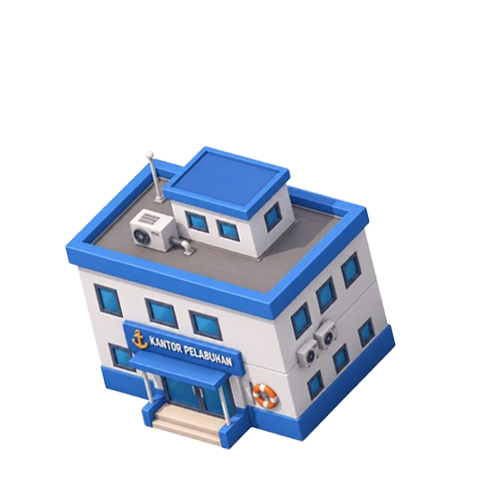
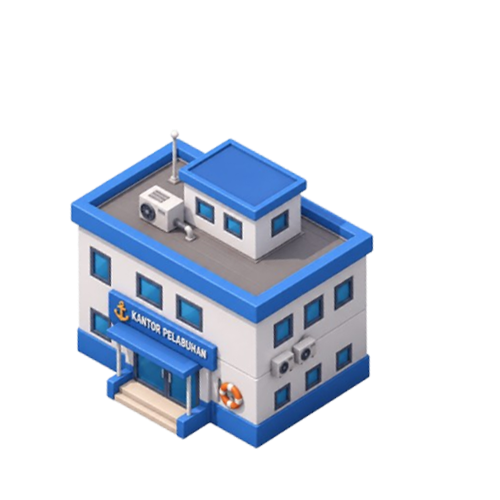
Map layout retune via editor: reposition all six facilities, refresh kantor art

Changed region(s): [[0.12, 0.27, 0.81, 0.9]]

diff --git a/src/lib/data/facilities.ts b/src/lib/data/facilities.ts
@@ -13,7 +13,7 @@ export const FACILITIES: FacilityDef[] = [
     icon: '⚓',
     tagline: 'Jantung bongkar-muat pelabuhan',
     sprite: `${IMG}/dermaga.png`,
-    pos: { x: 67, y: 66, w: 17 },
+    pos: { x: 70.8, y: 42.4, w: 15 },
     actions: [
       {
         id: 'bongkar-ekspres',
@@ -48,7 +48,7 @@ export const FACILITIES: FacilityDef[] = [
     icon: '🏬',
     tagline: 'Logistik dan penyimpanan kargo',
     sprite: `${IMG}/gudang.png`,
-    pos: { x: 30, y: 41, w: 19 },
+    pos: { x: 47.1, y: 26.9, w: 19 },
     actions: [
       {
         id: 'sewa-gudang',
@@ -86,7 +86,7 @@ export const FACILITIES: FacilityDef[] = [
     icon: '🏢',
     tagline: 'Administrasi dan kebijakan',
     sprite: `${IMG}/kantor.png`,
-    pos: { x: 44, y: 19, w: 12.5 },
+    pos: { x: 45.6, y: 65.7, w: 14 },
     actions: [
       {
         id: 'pelatihan-k3',
@@ -136,7 +136,7 @@ export const FACILITIES: FacilityDef[] = [
     icon: '🦐',
     tagline: 'Budidaya pesisir dan sabuk hijau',
     sprite: `${IMG}/tambak.png`,
-    pos: { x: 42, y: 55, w: 17 },
+    pos: { x: 30.3, y: 44.7, w: 20 },
     actions: [
       {
         id: 'panen-tambak',
@@ -208,7 +208,7 @@ export const FACILITIES: FacilityDef[] = [
     icon: '🐟',
     tagline: 'Denyut ekonomi rakyat pesisir',
     sprite: `${IMG}/pasar.png`,
-    pos: { x: 8, y: 37, w: 18 },
+    pos: { x: 44.3, y: 53.9, w: 19 },
     actions: [
       {
         id: 'lelang-ikan',